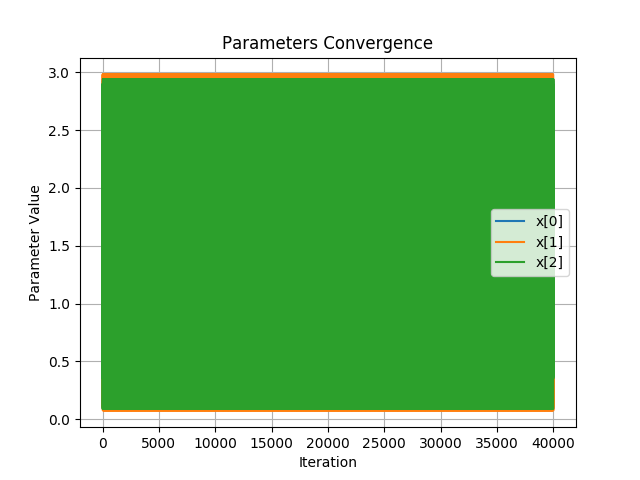
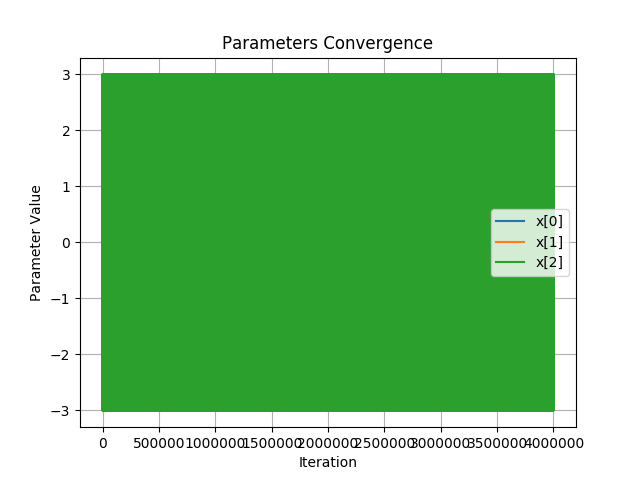
pso works

diff --git a/lab4/particle_swarm_optimization.py b/lab4/particle_swarm_optimization.py
@@ -19,10 +19,10 @@ class Particle:
         # Todo: implement
         quantity_of_dimensions = len(lower_bound)
 
-        self.position = np.array([])
+        self.position = np.zeros(np.size(lower_bound))
         for i in range(quantity_of_dimensions):
             random_position = random.uniform(lower_bound[i], upper_bound[i])
-            self.position = np.append(self.position, [random_position])
+            self.position[i] = random_position
 
         self.velocity = 0
         self.my_best_value = -inf
@@ -49,6 +49,7 @@ class ParticleSwarmOptimization:
         self.hyperparams = hyperparams
         self.lower_bound = lower_bound
         self.upper_bound = upper_bound
+        self.quantity_of_dimensions = np.size(lower_bound)
 
         self.particles = []
         for i in range(self.hyperparams.num_particles):
@@ -88,6 +89,7 @@ class ParticleSwarmOptimization:
         """
         # Todo: implement
         position_to_evaluate = self.particles[self.count_particles_evaluated].position
+        # print("\nAnalisando particula " + str(self.count_particles_evaluated) + ": posicao " + str(position_to_evaluate))
 
         return position_to_evaluate
 
@@ -106,7 +108,21 @@ class ParticleSwarmOptimization:
                                 self.hyperparams.social_parameter * r_g * \
                                 (self.global_best_position - particle.position)
 
+            for i in range(self.quantity_of_dimensions):
+                particle.velocity[i] = min(max(particle.velocity[i], -(self.upper_bound[i] - self.lower_bound[i])),
+                                           self.upper_bound[i] - self.lower_bound[i])
+
+            # print("velocidade: " + str(particle.velocity))
+
+            # particle.velocity = min(max(particle.velocity, -(self.upper_bound - self.lower_bound)),
+            #                         self.upper_bound - self.lower_bound)
+
             particle.position = particle.position + particle.velocity
+
+            for i in range(self.quantity_of_dimensions):
+                particle.position[i] = min(max(particle.position[i], -(self.upper_bound[i] - self.lower_bound[i])),
+                                           self.upper_bound[i] - self.lower_bound[i])
+            # particle.position = min(max(particle.position, self.lower_bound), self.upper_bound)
 
     def notify_evaluation(self, value):
         """
@@ -116,19 +132,25 @@ class ParticleSwarmOptimization:
         :type value: float.
         """
         # Todo: implement
+        # print(self.global_best_position)
+        # print("valor para essa posicao: " + str(value))
+        # print("------------------------")
         current_particle_evaluated = self.particles[self.count_particles_evaluated]
+        # print("valor antigo: " + str(current_particle_evaluated.my_best_value))
+        # print("valor melhor de todos: " + str(self.global_best_value))
 
         if value > current_particle_evaluated.my_best_value:
+            # print("valor melhor que o antigo")
             current_particle_evaluated.my_best_value = value
             current_particle_evaluated.my_best_position = current_particle_evaluated.position
 
         if value > self.global_best_value:
+            # print("valor melhor que o melhor de todos")
             self.global_best_value = value
             self.global_best_position = current_particle_evaluated.position
 
         self.count_particles_evaluated = self.count_particles_evaluated + 1
         if self.count_particles_evaluated == self.hyperparams.num_particles:
             self.count_particles_evaluated = 0
-
-        pass  # Remove this line
-
+            self.advance_generation()
+            # print("\nNOVA GERACAO")
